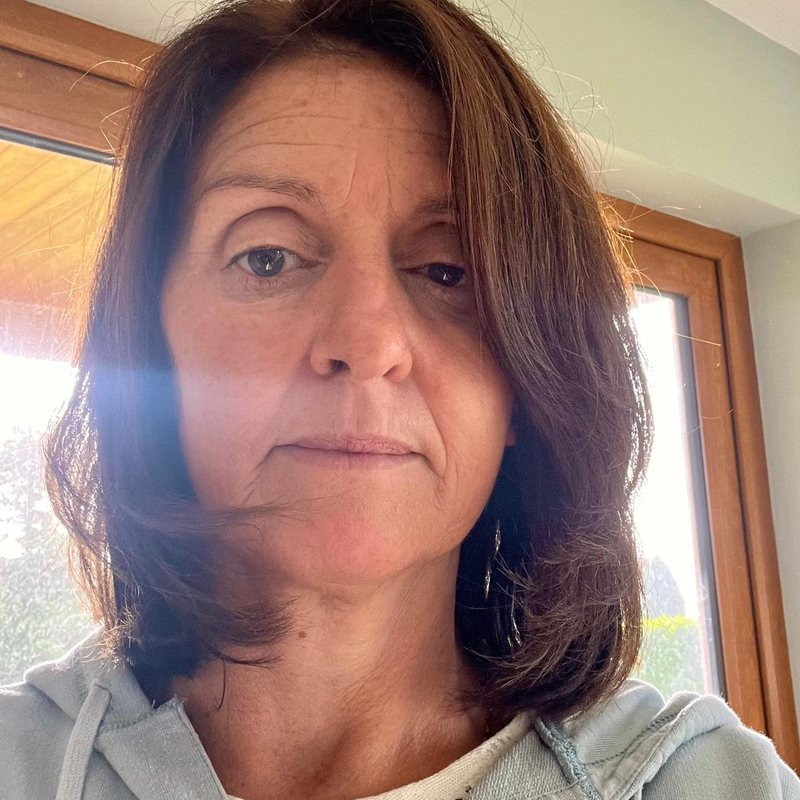
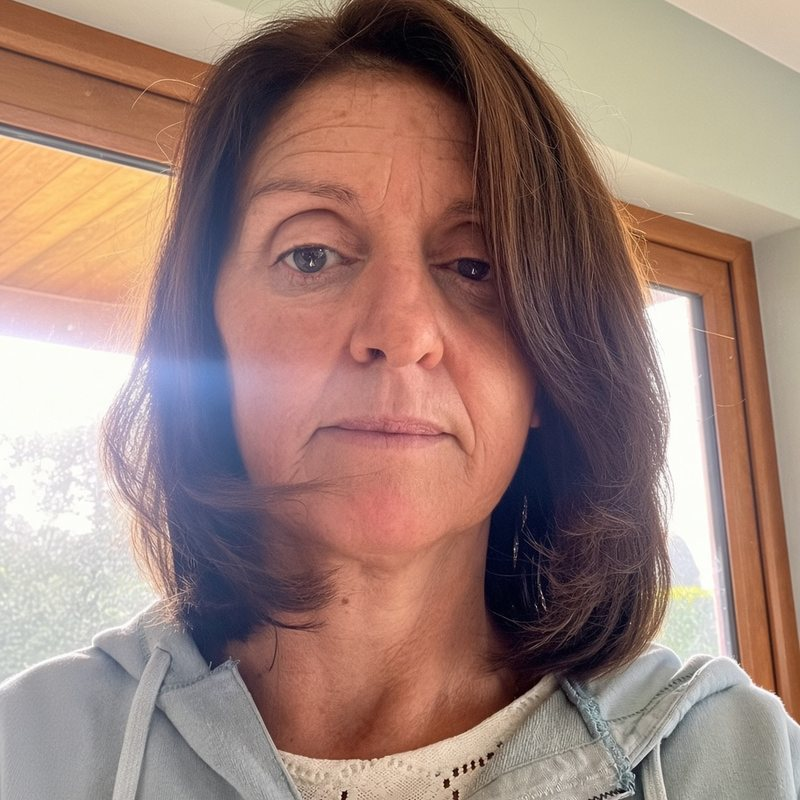
Add Q1 Scientific, Panasonic, Kingspan and Irish Distillers to the client wheel; new photo of Jackie
The wheel's radius now grows with the number of logos so cards never overlap.

diff --git a/index.html b/index.html
@@ -260,7 +260,7 @@
       <h2 class="h-display">Who we work with</h2>
       <p class="lead">Businesses across Ireland that trust us with their projects.</p>
     </div>
-    <div class="wheel" data-wheel role="group" aria-roledescription="carousel" aria-label="Companies we work with. Drag, or use the arrow keys, to turn the wheel." tabindex="0">
+    <div class="wheel" data-wheel style="--n: 17" role="group" aria-roledescription="carousel" aria-label="Companies we work with. Drag, or use the arrow keys, to turn the wheel." tabindex="0">
       <ul class="wheel__ring">
         <li class="wheel__item" style="--i:0"><span class="wheel__card"><img src="assets/img/clients/dawn-meats.png" alt="Dawn Meats" loading="lazy" draggable="false"></span></li>
         <li class="wheel__item" style="--i:1"><span class="wheel__card"><img src="assets/img/clients/frs-direct.png" alt="FRS Direct" loading="lazy" draggable="false"></span></li>
@@ -275,6 +275,10 @@
         <li class="wheel__item" style="--i:10"><span class="wheel__card"><img src="assets/img/clients/maryborough-hotel.png" alt="Maryborough Hotel" loading="lazy" draggable="false"></span></li>
         <li class="wheel__item" style="--i:11"><span class="wheel__card"><img src="assets/img/clients/hallahans.png" alt="Hallahans Family Pharmacy" loading="lazy" draggable="false"></span></li>
         <li class="wheel__item" style="--i:12"><span class="wheel__card"><img src="assets/img/clients/faithlegg.png" alt="Faithlegg" loading="lazy" draggable="false"></span></li>
+        <li class="wheel__item" style="--i:13"><span class="wheel__card"><img src="assets/img/clients/q1-scientific.png" alt="Q1 Scientific" loading="lazy" draggable="false"></span></li>
+        <li class="wheel__item" style="--i:14"><span class="wheel__card"><img src="assets/img/clients/panasonic.png" alt="Panasonic Heating &amp; Cooling Solutions" loading="lazy" draggable="false"></span></li>
+        <li class="wheel__item" style="--i:15"><span class="wheel__card"><img src="assets/img/clients/kingspan.png" alt="Kingspan" loading="lazy" draggable="false"></span></li>
+        <li class="wheel__item" style="--i:16"><span class="wheel__card"><img src="assets/img/clients/irish-distillers.png" alt="Irish Distillers Pernod Ricard" loading="lazy" draggable="false"></span></li>
       </ul>
     </div>
     <div class="wheel__controls">

diff --git a/assets/css/styles.css b/assets/css/styles.css
@@ -416,7 +416,9 @@ button { font: inherit; }
 
 /* ---------- Client wheel (3D ring: drag, arrows, keyboard, auto-turns, pausable) ---------- */
 .wheel {
-  --w: 240px; --h: 136px; --R: 530px; --n: 13; --px: 28px; --py: 22px;
+  --w: 240px; --h: 136px; --n: 13; --px: 28px; --py: 22px;
+  /* ring radius grows with the number of logos (--n is set on the element) so cards never overlap */
+  --R: max(530px, calc(var(--n) * (var(--w) + 20px) / 6.2832));
   position: relative; height: calc(var(--h) + 96px); overflow: hidden; perspective: calc(var(--R) * 3.4);
   cursor: grab; touch-action: pan-y; user-select: none; -webkit-user-select: none; border-radius: var(--r);
 }
@@ -435,8 +437,8 @@ button { font: inherit; }
 .wheel__btn--text { width: auto; padding: 0 1.3em; font: 600 .9375rem/1 var(--font-body); border-radius: 999px; }
 .wheel__btn .icon { width: 22px; height: 22px; }
 .icon--flip { transform: scaleX(-1); }
-@media (max-width: 900px) { .wheel { --w: 200px; --h: 114px; --R: 440px; } }
-@media (max-width: 560px) { .wheel { --w: 168px; --h: 98px; --R: 372px; --px: 20px; --py: 14px; } }
+@media (max-width: 900px) { .wheel { --w: 200px; --h: 114px; --R: max(440px, calc(var(--n) * (var(--w) + 16px) / 6.2832)); } }
+@media (max-width: 560px) { .wheel { --w: 168px; --h: 98px; --R: max(372px, calc(var(--n) * (var(--w) + 14px) / 6.2832)); --px: 20px; --py: 14px; } }
 /* ---------- Call to action ---------- */
 .cta__grid { display: flex; flex-wrap: wrap; align-items: center; justify-content: space-between; gap: 28px 56px; }
 .cta__grid .h-display { margin-bottom: .2em; }

diff --git a/README.md b/README.md
@@ -123,7 +123,7 @@ Draft notes are no longer shown on the pages. Anything still to confirm is in th
 - [ ] Company registration number (a public listing shows 592547, so confirm it on the CRO) and registered office
 - [ ] Each person's LinkedIn profile link (the company link is already set)
 - [ ] Real photos, team portraits and bios; confirm Jack's title (signatures say "Operations", the old site said "Co-founder and Operations Director")
-- [ ] Client logos (13 on the home page wheel): confirm each company is happy to be shown
+- [ ] Client logos (17 on the home page wheel): confirm each company is happy to be shown
 - [ ] "Certified by Safe Electric registered electricians" (services page): confirm it is still true
 - [ ] Contact form: do the one-time Netlify setup (see "Contact form") and send a test enquiry from the live site
 - [ ] Privacy notice reviewed
